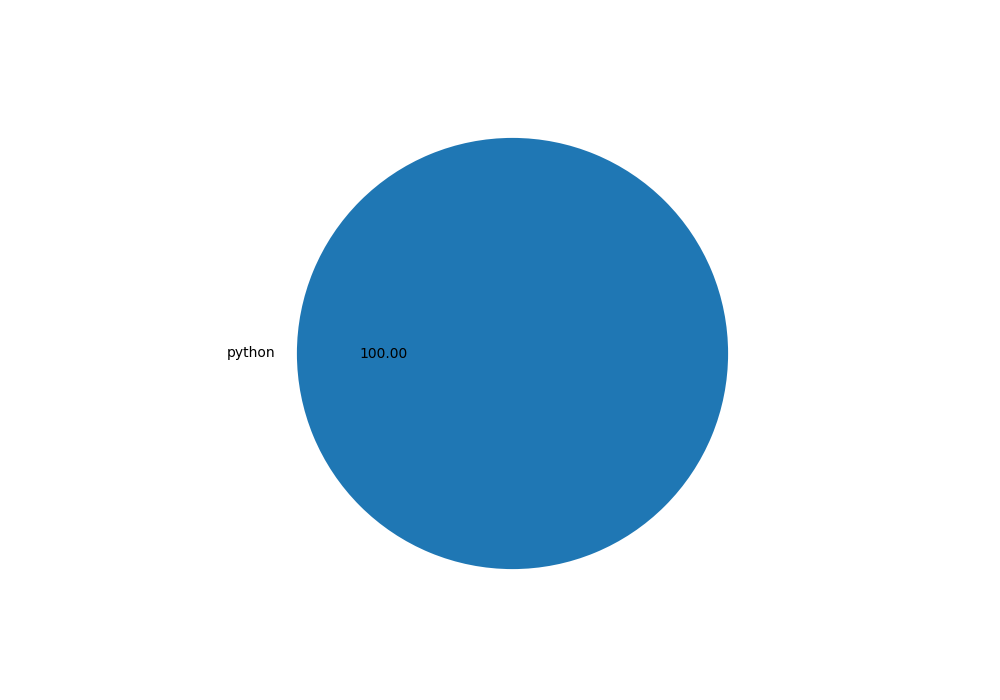
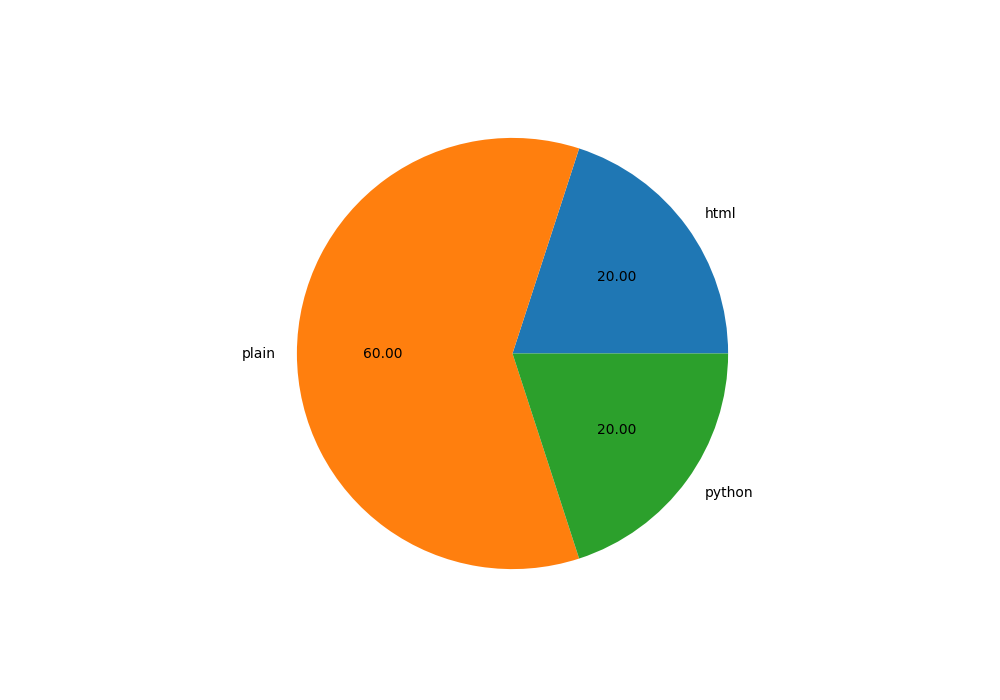
Change dashboard

diff --git a/Flask_App/templates/dashboard.html b/Flask_App/templates/dashboard.html
@@ -1,6 +1,30 @@
 {% extends "base.html" %}
+
+{% block head %}
+
+{{ super() }}
+
+{% endblock %}
+
 {% block app_content %}
-    <h1> Here is the chart</h1>
-    <img src="{{url_for('static',filename='table_chart.png')}}" alt="table_chart" />
-    <img src="{{url_for('static',filename='pie_chart.png')}}" alt="pie_chart">
+
+
+                <table class="table table-bordered">
+                  <thead>
+                    <tr>
+                      <th scope="col">File Name</th>
+                      <th scope="col">Time Spent in minutes</th>
+                    </tr>
+                  </thead>
+                  <tbody>
+                    {% for row in time_data %}
+                    <tr>
+                      <td>{{row[1]}}</td>
+                      <td>{{row[2]}}</td>
+                    </tr>
+                    {% endfor %}
+                    </tbody>
+                </table>
+<img class="img-responsive" src="{{ url_for('static',filename='pie_chart.png') }}" alt="Chania" width="640" height="640"> 
+                
 {% endblock %} 

diff --git a/Flask_App/flask_server.py b/Flask_App/flask_server.py
@@ -24,13 +24,6 @@ def index():
     return render_template("index.html", title="Code Time")
 
 
-@app.route("/insert_data", methods=["post"])
-def insert_data():
-    data = request.get_json()
-    print(data)
-    return render_template("index.html", title="Code Time")
-
-
 @app.route('/login', methods=['GET', 'POST'])
 def login():
     form = signupForm()
@@ -53,10 +46,14 @@ def signup():
 
 @app.route('/dashboard/<uid>', methods=['GET'])
 def dashboard(uid):
-    chart_data = sql_actions.retrieve_data_table_chart(db, uid)
-    pie_data = sql_actions.retrieve_data_pie_chart(db, uid)
+    time_data = sql_actions.retrieve_data_table_chart(db, uid)
+    pie_chart_data = sql_actions.retrieve_data_pie_chart(db, uid)
     # [(user_id, file_name, start_date, end_date)]
+
+
+
     # Graph Plot Function
+    """
     table_data = []
     for item in chart_data:
         table_data.append((item[1], float(item[2])))
@@ -66,11 +63,12 @@ def dashboard(uid):
     axs.table(cellText=table_data, colLabels=collabel, loc='center')
     #plt.show()
     plt.savefig('static/table_chart.png')
+    """
     pie_file_types = []
     pie_file_total = []
-
+    
     # create pie chart
-    for item in pie_data:
+    for item in pie_chart_data:
         pie_file_types.append(item[1])
         pie_file_total.append(item[2])
     plt.figure(figsize=(10, 7))
@@ -78,16 +76,16 @@ def dashboard(uid):
     # show plot
     #plt.show()
     plt.savefig('static/pie_chart.png')
-    return render_template('dashboard.html')
+    
+    return render_template('dashboard.html',title='Dashboard',pie_chart_data=pie_chart_data,time_data=time_data)
     # return render_template('dashboard.html')
 
 
 @app.route('/send', methods=['POST'])
 def send():
     send_list = request.get_json(force=True)
-    send_list = json.loads(send_list)
     print(send_list, type(send_list))
-    sql_actions.add_data_dashboard(db, send_list)
+    sql_actions.add_data_dashboard(db, send_list['data'])
     return "Data added"
 
 
